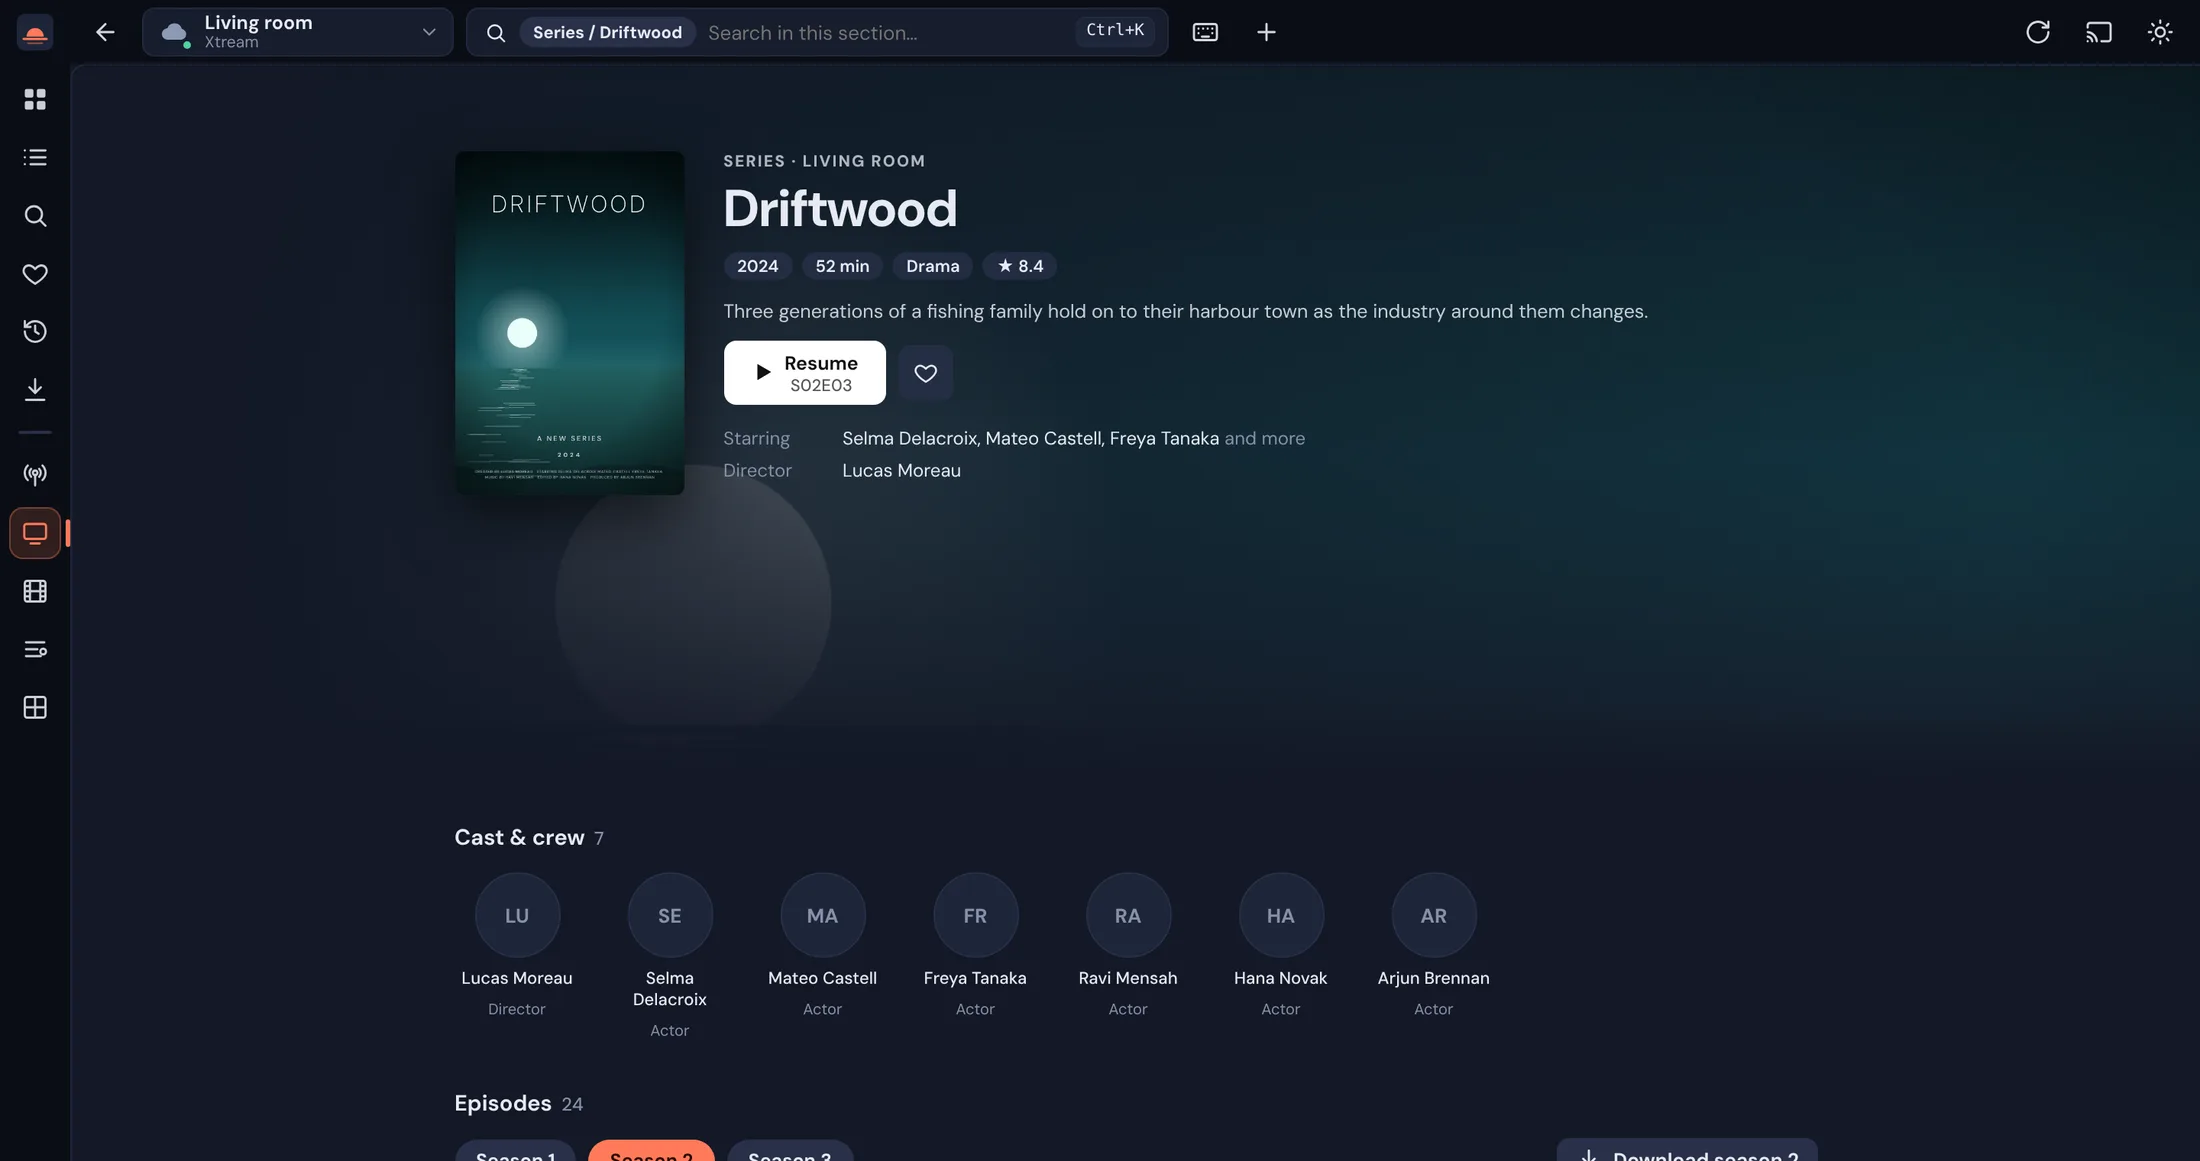
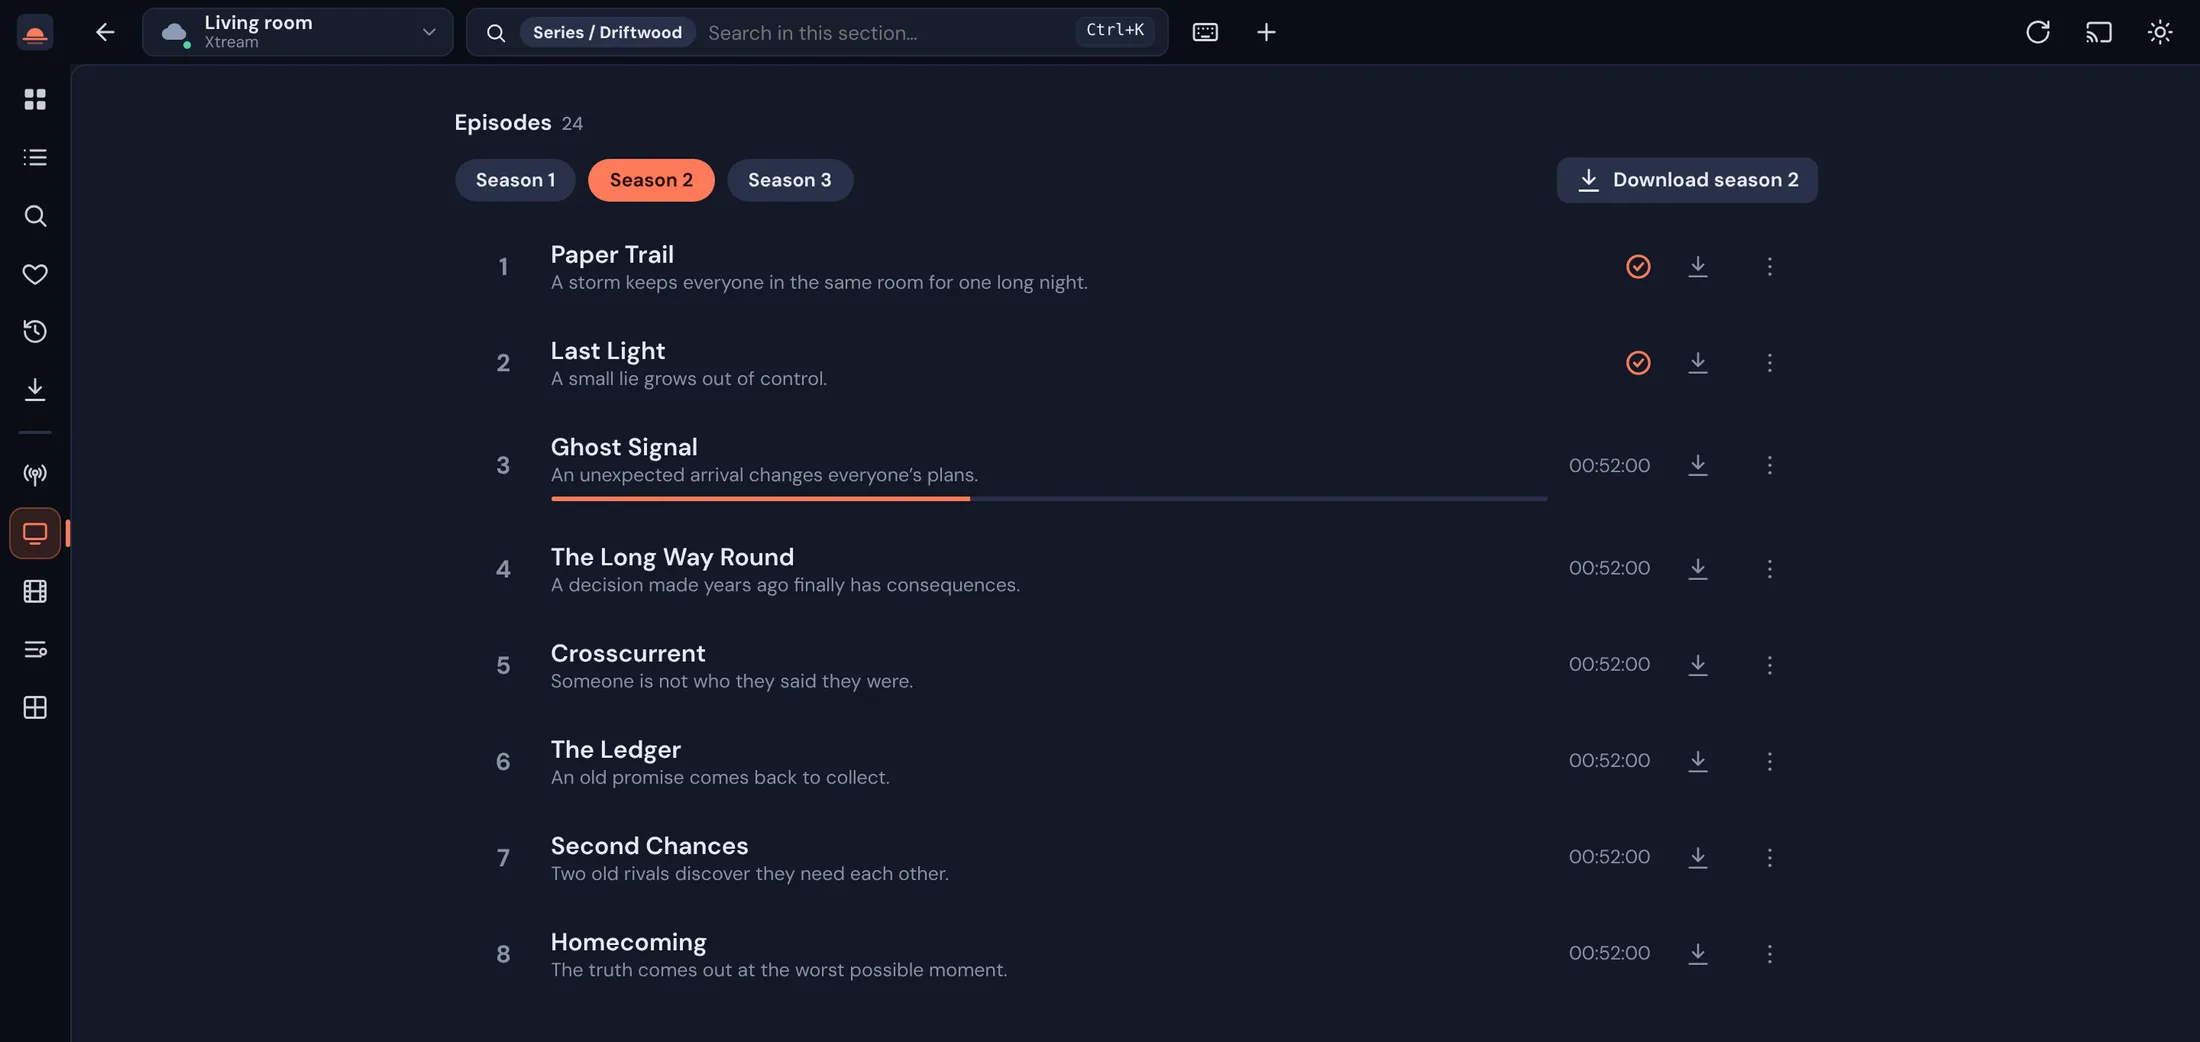
Website: show the episode list in the series screenshot
The picture now scrolls to Episodes, so it shows what the caption says:
watched episodes ticked off and one in progress.

diff --git a/scripts/screenshots/capture.js b/scripts/screenshots/capture.js
@@ -13,7 +13,7 @@ const { MOVIES, SERIES, CHANNELS } = require('./catalog');
 const OUT = process.env.SHOTS_OUT || path.join(__dirname, '.cache', 'shots');
 const SITE_IMG = path.join(__dirname, '..', '..', 'docs', 'img');
 // shot -> how many CSS pixels from the top to keep on the website (the rest is empty page)
-const CROP = { movie: 640, series: 760, light: 600 };
+const CROP = { movie: 640, light: 600 };
 const W = 1440, H = 900;
 const PID = 'demo';
 const wait = (ms) => new Promise((r) => setTimeout(r, ms));
@@ -90,11 +90,11 @@ async function main(only) {
     await page.evaluate(() => Promise.all([...document.images].filter((i) => !i.complete && i.offsetParent).map((i) => new Promise((r) => { i.onload = i.onerror = r; setTimeout(r, 4000); }))));
     await wait(ms);
   };
-  const save = async (page, name) => {
+  const save = async (page, name, cropTo = CROP[name]) => {
     const png = path.join(OUT, name + '.png');
     await page.screenshot({ path: png });
     fs.mkdirSync(SITE_IMG, { recursive: true });
-    const keep = CROP[name] ? `crop=iw:ih*${CROP[name]}/${H}:0:0,` : '';
+    const keep = cropTo ? `crop=iw:ih*${cropTo}/${H}:0:0,` : '';
     execFileSync('ffmpeg', ['-y', '-hide_banner', '-loglevel', 'error', '-i', png, '-vf', `${keep}scale=2200:-1:flags=lanczos`, '-quality', '82', path.join(SITE_IMG, name + '.webp')]);
     console.log('  saved', name);
   };
@@ -158,7 +158,17 @@ async function main(only) {
       await page.evaluate(() => { const s = state.cache['demo:series'].channels.find((m) => m.id === '201'); state.season[s.uid] = 2; openDetail(s); });
       await page.waitForFunction(() => document.querySelectorAll('#wsDetail .ep').length, null, { timeout: 20000 });
       await settle(page, 1200);
-      await save(page, 'series');
+      // the episode list is the point here: scroll it up under the top bar, and keep the picture down to its last row
+      const bottom = await page.evaluate(() => {
+        const d = $('#wsDetail');
+        d.querySelector('.detail-in').style.paddingBottom = '900px';   // room to scroll the list all the way up
+        const head = [...d.querySelectorAll('.dt-sec h3')].find((h) => /Episodes/.test(h.textContent));
+        d.scrollTop += head.getBoundingClientRect().top - d.getBoundingClientRect().top - 28;
+        const eps = d.querySelectorAll('.ep');
+        return Math.ceil(eps[eps.length - 1].getBoundingClientRect().bottom + 28);
+      });
+      await settle(page, 600);
+      await save(page, 'series', Math.min(H, bottom));
       await ctx.close();
     },
     async multiview() {

diff --git a/docs/index.html b/docs/index.html
@@ -106,7 +106,7 @@
         <figure class="shot shot-wide"><img src="img/movies.webp" width="2200" height="1375" loading="lazy" alt="The movie library: categories on the left and a grid of posters with ratings"></figure>
         <div class="pair">
           <figure class="shot"><img src="img/movie.webp" width="2200" height="978" loading="lazy" alt="A movie’s page with its poster, year, length, genres, plot and a Resume button"><figcaption><b>Resume</b> where you stopped, on every movie and episode.</figcaption></figure>
-          <figure class="shot"><img src="img/series.webp" width="2200" height="1161" loading="lazy" alt="A series page with seasons and a list of episodes, the watched ones ticked off"><figcaption><b>Seasons and episodes</b>, with what you’ve watched ticked off and the next one ready.</figcaption></figure>
+          <figure class="shot"><img src="img/series.webp" width="2200" height="1042" loading="lazy" alt="A series’ episode list for season 2: the first two episodes ticked off as watched, the third half-watched with a progress bar"><figcaption><b>Seasons and episodes</b>, with what you’ve watched ticked off and the next one ready.</figcaption></figure>
         </div>
       </div>
     </section>
